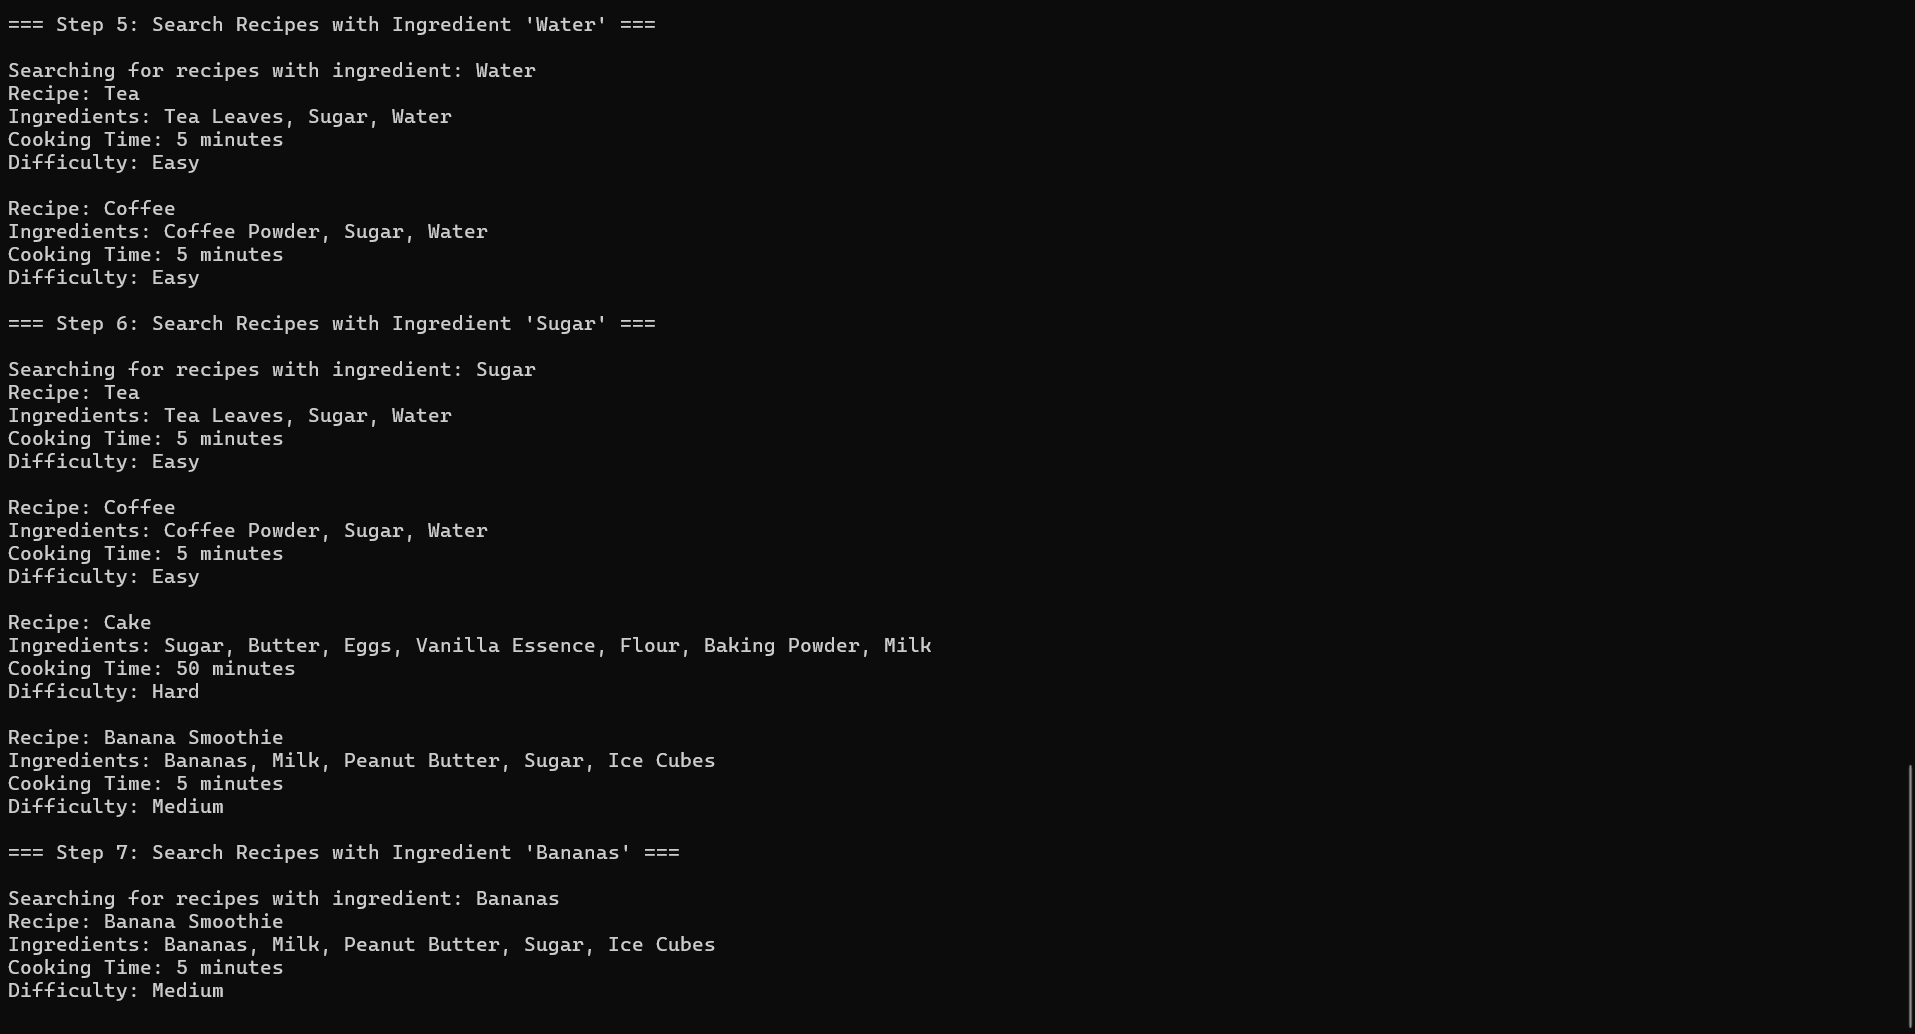
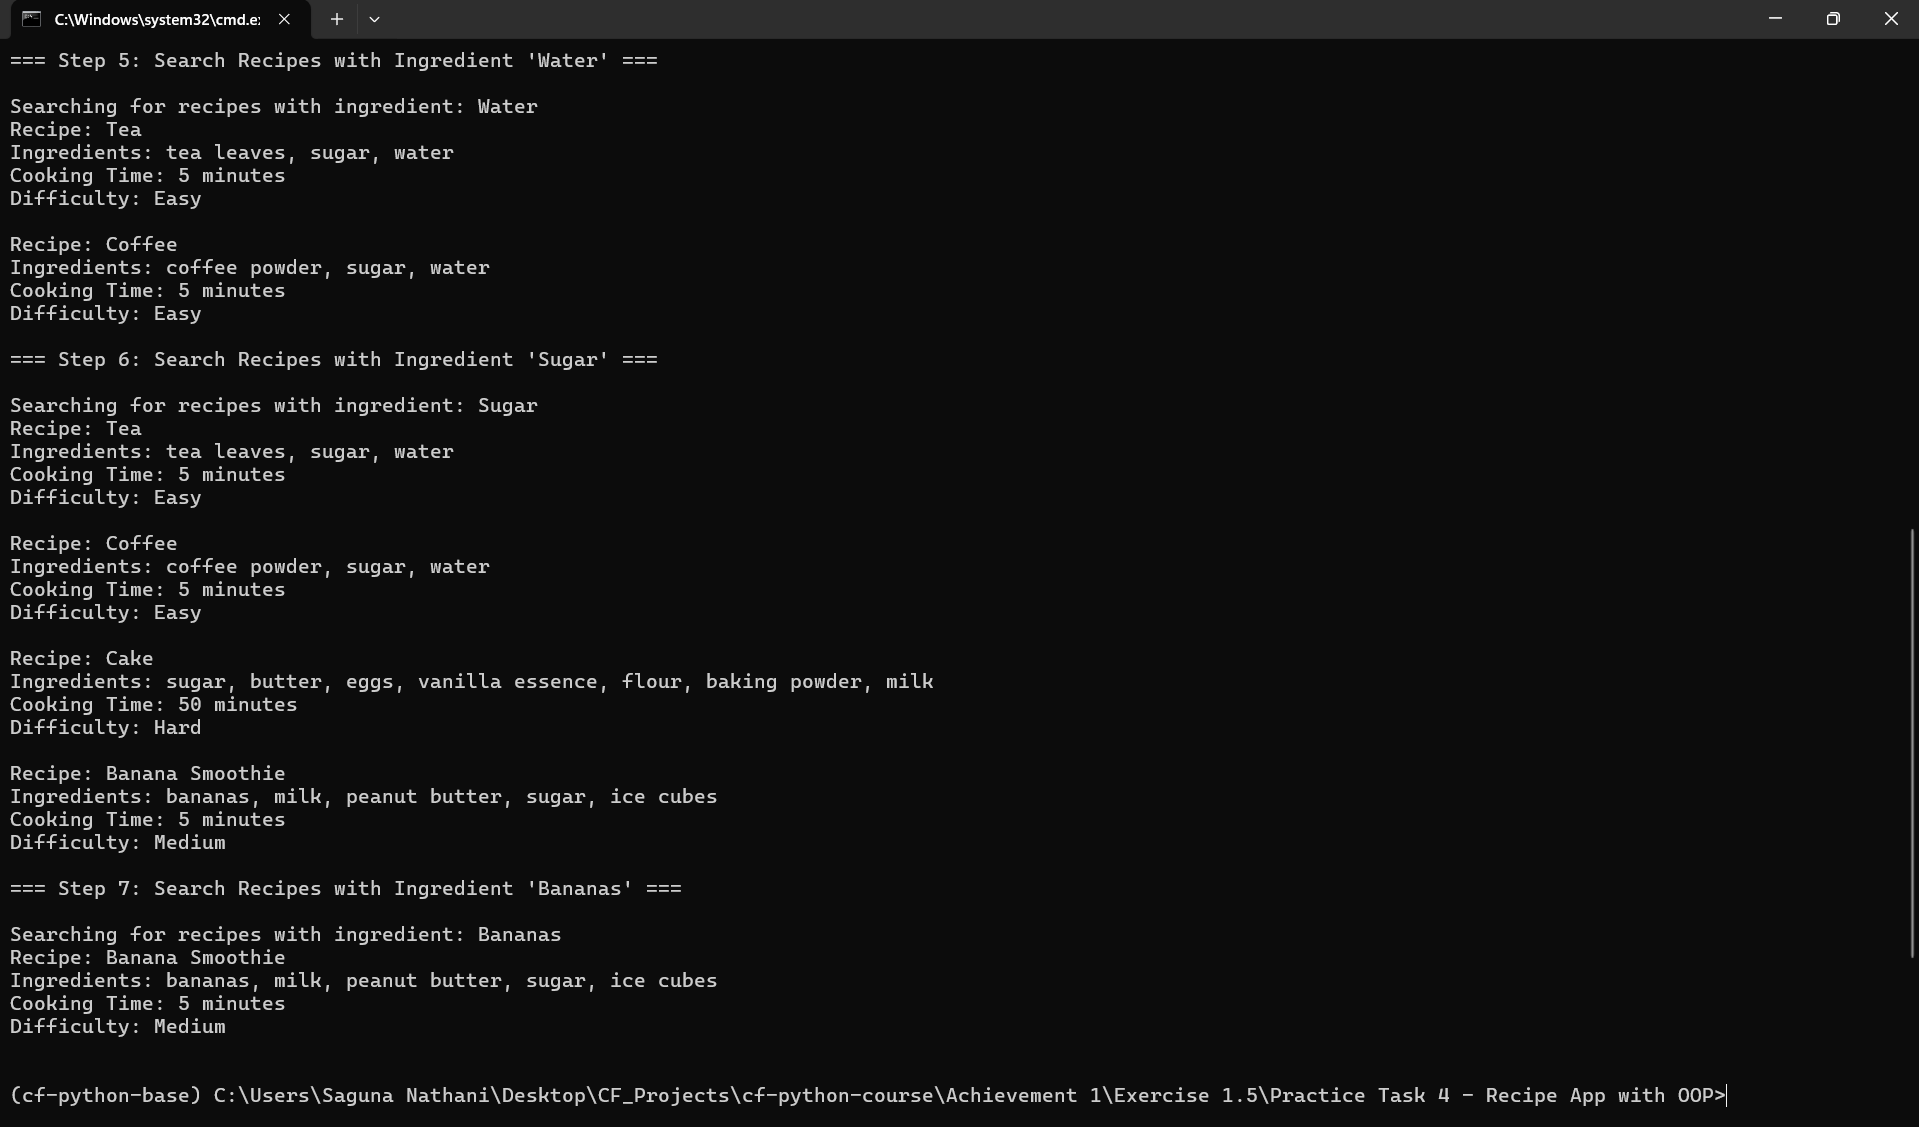
feat: update Recipe OOP script with ingredient normalization, cooking time validation, and static recipe_search; add grouped screenshots (Steps1-4_RecipeCreation, Steps5-7_RecipeSearch)

Changed region(s): [[0.0, 0.0, 1.0, 0.9903], [0.9859, 0.4952, 1.0, 0.9903], [0.7702, 0.9594, 0.8935, 0.9903]]

diff --git a/Achievement 1/Exercise 1.5/Practice Task 4 - Recipe App with OOP/recipe_oop.py b/Achievement 1/Exercise 1.5/Practice Task 4 - Recipe App with OOP/recipe_oop.py
@@ -20,13 +20,17 @@ class Recipe:
         return self.cooking_time
 
     def set_cooking_time(self, time):
+        # Safeguard cooking time input
+        if not isinstance(time, (int, float)) or time < 0:
+            raise ValueError("Cooking time must be a positive number.")
         self.cooking_time = time
         self.calculate_difficulty()
 
     # --- Add ingredients ---
     def add_ingredients(self, *args):
         for ingredient in args:
-            self.ingredients.append(ingredient)
+            # Normalize ingredients to lowercase
+            self.ingredients.append(ingredient.lower())
         self.update_all_ingredients()
         self.calculate_difficulty()
 
@@ -52,7 +56,8 @@ class Recipe:
 
     # --- Ingredient search ---
     def search_ingredient(self, ingredient):
-        return ingredient in self.ingredients
+        # Normalize search term to lowercase
+        return ingredient.lower() in self.ingredients
 
     # --- Update class variable ---
     def update_all_ingredients(self):
@@ -66,13 +71,17 @@ class Recipe:
                 f"Ingredients: {', '.join(self.ingredients)}\n"
                 f"Cooking Time: {self.cooking_time} minutes\n"
                 f"Difficulty: {self.get_difficulty()}\n")
-    
-def recipe_search(data, search_term):
-    print(f"\nSearching for recipes with ingredient: {search_term}")
-    for recipe in data:
-        if recipe.search_ingredient(search_term):
-            print(recipe)
 
+    # --- Static method for recipe search ---
+    @staticmethod
+    def recipe_search(data, search_term):
+        print(f"\nSearching for recipes with ingredient: {search_term}")
+        for recipe in data:
+            if recipe.search_ingredient(search_term):
+                print(recipe)
+
+
+# --- Script Execution ---
 if __name__ == "__main__":
     print("=== Step 1: Create Tea Recipe Object ===")
     tea = Recipe("Tea")
@@ -101,14 +110,12 @@ if __name__ == "__main__":
     recipes_list = [tea, coffee, cake, smoothie]
 
     print("=== Step 5: Search Recipes with Ingredient 'Water' ===")
-    recipe_search(recipes_list, "Water")
+    Recipe.recipe_search(recipes_list, "Water")
 
     print("=== Step 6: Search Recipes with Ingredient 'Sugar' ===")
-    recipe_search(recipes_list, "Sugar")
+    Recipe.recipe_search(recipes_list, "Sugar")
 
     print("=== Step 7: Search Recipes with Ingredient 'Bananas' ===")
-    recipe_search(recipes_list, "Bananas")
+    Recipe.recipe_search(recipes_list, "Bananas")
 
-# === Steps 6–7: Search for recipes containing specific ingredients ===
-for ingredient in ["Water", "Sugar", "Bananas"]:
-    recipe_search(recipes_list, ingredient)
+
